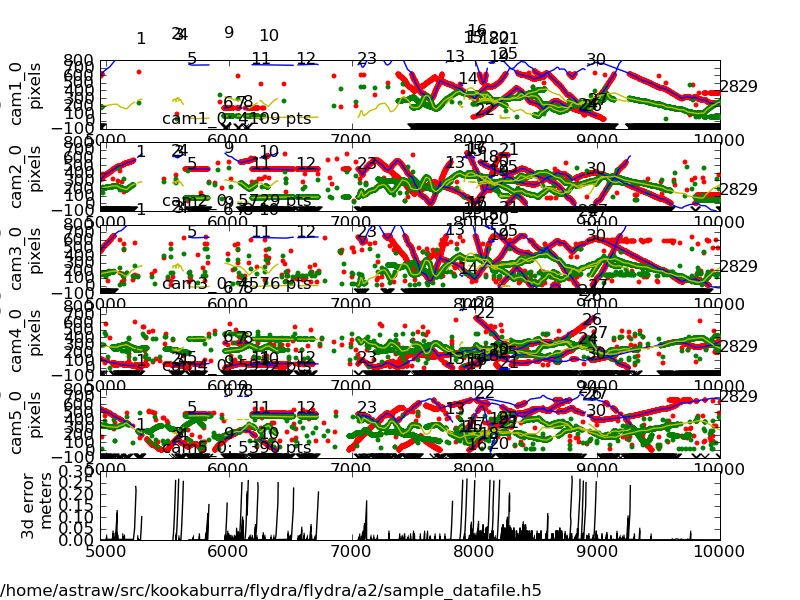
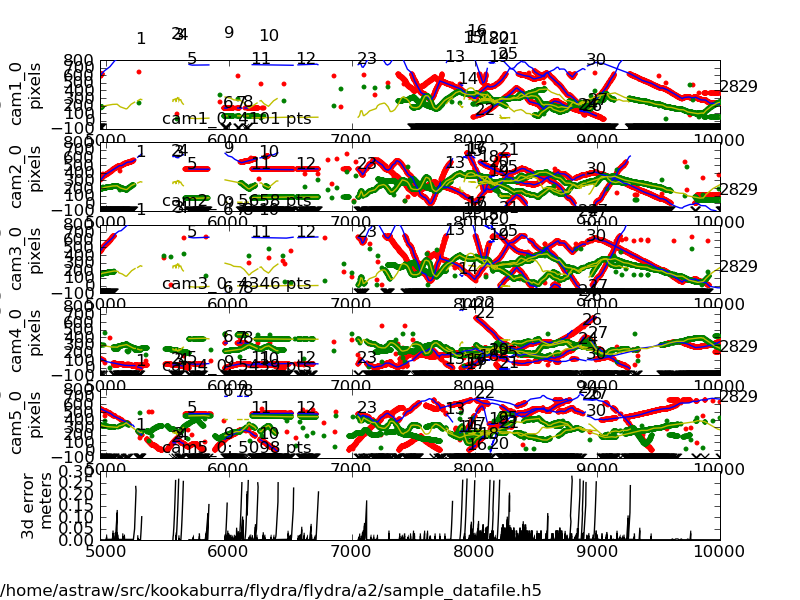
testing and documentation improvements
git-svn-id: https://code.astraw.com/kookaburra/trunk/flydra@2975 e6c0db7a-28da-0310-a2fc-f6ab65d9114a

diff --git a/flydra/test_commands.py b/flydra/test_commands.py
@@ -12,19 +12,22 @@ GALLERY_PATH = os.path.join(os.path.split(__file__)[0],'..',
 
 DATAFILE2D = pkg_resources.resource_filename('flydra.a2','sample_datafile.h5')
 DATAFILE3D = pkg_resources.resource_filename('flydra.a2','sample_datafile.h5')
+CALIB = pkg_resources.resource_filename('flydra.a2','sample_calibration.xml')
 
-def _get_names_dict(data2d,data3d):
+def _get_names_dict(data2d,data3d,calib):
     DATAFILE2D_NOEXT = os.path.splitext(data2d)[0]
     DATAFILE3D_NOEXT = os.path.splitext(data3d)[0]
     names = dict(DATAFILE2D=data2d,
                  DATAFILE3D=data3d,
                  DATAFILE2D_NOEXT=DATAFILE2D_NOEXT,
                  DATAFILE3D_NOEXT=DATAFILE3D_NOEXT,
+                 CALIB=calib,
                  )
     return names
 
 CANNONICAL_FILENAMES = {'DATAFILE2D':'DATAFILE2D.h5',
                         'DATAFILE3D':'DATAFILE3D.h5',
+                        'CALIB':'CALIBRATION.xml',
                         'target':'image.png'}
 
 # image based commands
@@ -43,22 +46,39 @@ image_info = [
 
     {'cmd':('flydra_analysis_plot_timeseries_2d_3d %(DATAFILE2D)s '
             '--kalman-file=%(DATAFILE3D)s --disable-kalman-smoothing '
-            '--save-fig=%(target)s'),
+            '--save-fig=%(target)s --likely-only'),
      'result':'plot_timeseries_2d_3d.png',
-     'title':'Timeseries of 2D data with overlaid 3D tracking data',
+     'title':'Timeseries of 2D and 3D data',
+     'rst_comments':"""The ``--likely-only`` argument limits
+the 2D data plotted."""
+
      },
 
     ]
 
 # non-image based commands
 command_info =  [
+    {'cmd':('flydra_kalmanize %(DATAFILE2D)s --reconstructor=%(CALIB)s '
+            '--max-err=10.0 --min-observations-to-save=10'),
+     'outfile':'%(DATAFILE2D_NOEXT)s.kalmanized.h5',
+     'result':'kalmanized.h5',
+     'compare_results':False,
+
+     'rst_comments':"""This re-runs the data association algorithm. It
+is useful to do this because the original realtime run may have
+skipped some processing to meet realtime constraints or because a
+better calibration is known. The new data are saved to an .h5 file
+named ``%(outfile)s``.
+"""
+     },
     {'cmd':'data2smoothed %(DATAFILE3D)s --time-data=%(DATAFILE2D)s',
      'outfile':'%(DATAFILE3D_NOEXT)s_smoothed.mat',
      'result':'data2smoothed.mat',
      'rst_comments':"""This produces a .mat file named
 ``%(outfile)s``. This file contains smoothed tracking data in addition
 to (unsmoothed) maximum likelihood position estimates."""
-     }, ]
+     },
+    ]
 
 
 gallery_rst_src = """
@@ -101,7 +121,9 @@ def generate_images():
         check_command_with_image( 'generate', info)
         cmd_show = info['cmd']%CANNONICAL_FILENAMES
         names = _get_names_dict(CANNONICAL_FILENAMES['DATAFILE2D'],
-                                CANNONICAL_FILENAMES['DATAFILE3D'])
+                                CANNONICAL_FILENAMES['DATAFILE3D'],
+                                CANNONICAL_FILENAMES['CALIB'],
+                                )
         if 'title' in info:
             title = info['title']
         else:
@@ -125,11 +147,16 @@ def generate_commands():
     command_gallery = ''
     for info in command_info:
         check_command( 'generate', info )
-        cmd_show = info['cmd']%CANNONICAL_FILENAMES
+        #cmd_show = info['cmd']%CANNONICAL_FILENAMES
         names = _get_names_dict(CANNONICAL_FILENAMES['DATAFILE2D'],
-                                CANNONICAL_FILENAMES['DATAFILE3D'])
+                                CANNONICAL_FILENAMES['DATAFILE3D'],
+                                CANNONICAL_FILENAMES['CALIB'],
+                                )
         if 'outfile' in info:
             names['outfile'] = info['outfile']%names
+            names['target'] = names['outfile']
+
+        cmd_show = info['cmd']%names
 
         if 'title' in info:
             title = info['title']
@@ -162,7 +189,7 @@ def check_command_with_image(mode,info):
         handle, target = tempfile.mkstemp('.png')
     elif mode=='generate':
         target = result_fullpath
-    names = _get_names_dict(DATAFILE2D,DATAFILE3D)
+    names = _get_names_dict(DATAFILE2D,DATAFILE3D,CALIB)
     names['target']=target
 
     cmd = info['cmd']%names
@@ -175,9 +202,7 @@ def check_command_with_image(mode,info):
 def check_command(mode,info):
     assert mode in ['check','generate']
     result_fullpath = os.path.join( AUTOGEN_DIR, info['result'] )
-    names = _get_names_dict(DATAFILE2D,DATAFILE3D)
-
-    cmd = info['cmd']%names
+    names = _get_names_dict(DATAFILE2D,DATAFILE3D,CALIB)
 
     # 'outfile' key indicates that we don't have control of location
     # of output file -- we must accept where command will put it.
@@ -190,15 +215,23 @@ def check_command(mode,info):
         # not yet needed
         suffix = info.get('suffix','')
         handle, target = tempfile.mkstemp(suffix)
+    names['target']=target
+
+    cmd = info['cmd']%names
 
     subprocess.check_call(cmd, shell=True)
 
     if mode=='check':
-        are_close = are_files_close( target, result_fullpath )
+        if info.get('compare_results',True):
+            are_close = are_files_close( target, result_fullpath )
         os.unlink(target)
-        assert are_close == True
+        if info.get('compare_results',True):
+            assert are_close == True
     elif mode=='generate':
-        shutil.move( target, result_fullpath )
+        if info.get('compare_results',True):
+            shutil.move( target, result_fullpath )
+        else:
+            os.unlink(target)
 
 def are_files_close(filename1, filename2):
     fd1 = open(filename1)

diff --git a/setup.py b/setup.py
@@ -121,6 +121,7 @@ setup(name='flydra',
                     'flydra.a2':['kdmovie_saver_default_path.kmp',
                                  'sample_*.h5',
                                  'sample_*.mat',
+                                 'sample_calibration.xml',
                                  'Makefile.kalmanize',
                                  ],
                     },

diff --git a/flydra-sphinx-docs/conf.py b/flydra-sphinx-docs/conf.py
@@ -50,7 +50,8 @@ copyright = u'2008, California Institute of Technology'
 # The short X.Y version.
 version = '0.4'
 # The full version, including alpha/beta/rc tags.
-release = '0.4.28'
+import flydra.version
+release = flydra.version.__version__
 
 # The language for content autogenerated by Sphinx. Refer to documentation
 # for a list of supported languages.

diff --git a/flydra-sphinx-docs/gallery.rst b/flydra-sphinx-docs/gallery.rst
@@ -37,13 +37,15 @@ The following command generated this image::
 .. image:: ../flydra/autogenerated/plot_timeseries_2d.png
   :width: 600
 
-Timeseries of 2D data with overlaid 3D tracking data
-....................................................
+Timeseries of 2D and 3D data
+............................
 
 The following command generated this image::
 
-  flydra_analysis_plot_timeseries_2d_3d DATAFILE2D.h5 --kalman-file=DATAFILE3D.h5 --disable-kalman-smoothing --save-fig=image.png
+  flydra_analysis_plot_timeseries_2d_3d DATAFILE2D.h5 --kalman-file=DATAFILE3D.h5 --disable-kalman-smoothing --save-fig=image.png --likely-only
 
+The ``--likely-only`` argument limits
+the 2D data plotted.
 
 .. image:: ../flydra/autogenerated/plot_timeseries_2d_3d.png
   :width: 600
@@ -52,6 +54,20 @@ The following command generated this image::
 
 Command gallery
 ===============
+
+flydra_kalmanize
+................
+
+::
+
+  flydra_kalmanize DATAFILE2D.h5 --reconstructor=CALIBRATION.xml --max-err=10.0 --min-observations-to-save=10
+
+This re-runs the data association algorithm. It
+is useful to do this because the original realtime run may have
+skipped some processing to meet realtime constraints or because a
+better calibration is known. The new data are saved to an .h5 file
+named ``DATAFILE2D.kalmanized.h5``.
+
 
 data2smoothed
 .............
